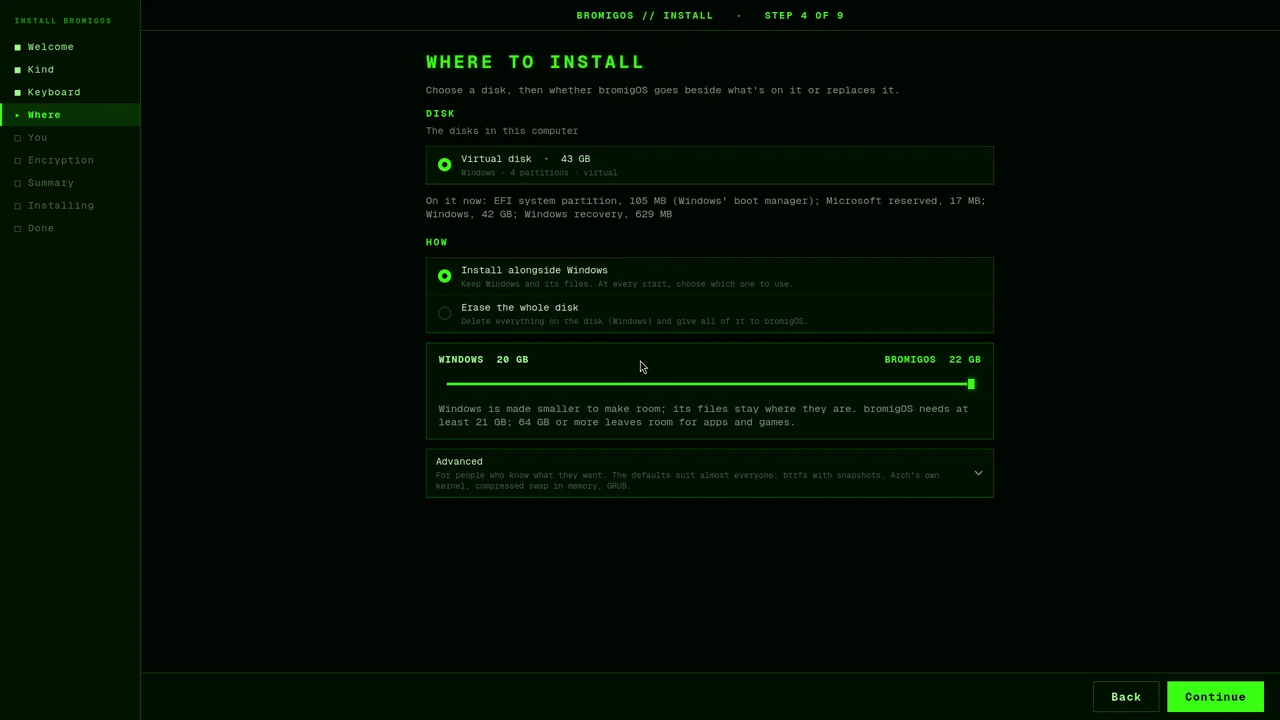
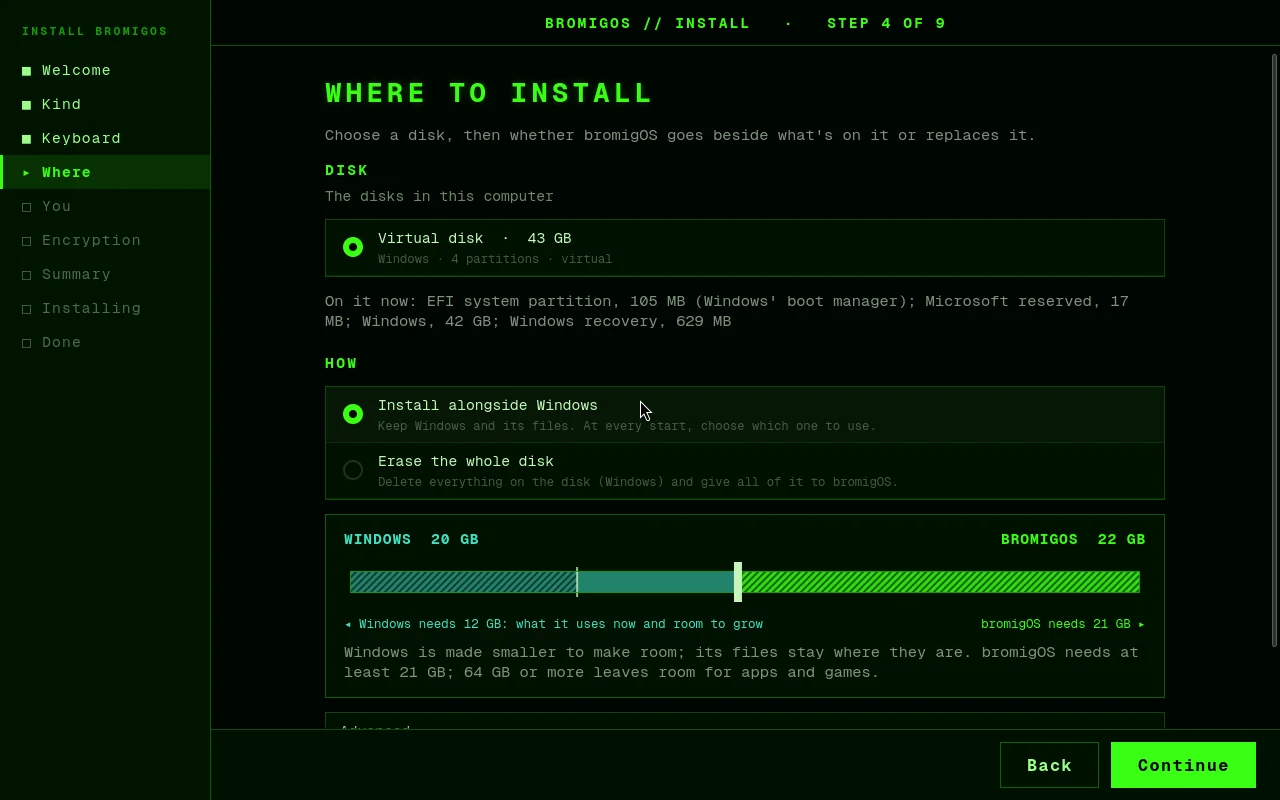
manual: the split and Pair your phone, as they are now
The Where-to-install picture showed the old slider, its handle at the far end for a
near-even split; it's now the QEMU capture of the bar that splits the disk, the handle
where the shares meet and each side's minimum striped (#38). Pair your phone's picture
shows the step laid out to fit one screen.

Claude-Session: https://claude.ai/code/session_01TNH5LNnAcRtMTGabp1hHmy

diff --git a/manual/src/install.md b/manual/src/install.md
@@ -270,7 +270,7 @@ has the details.
    - **your keyboard,** with a box to try it in.
    - **where to install.** Choose the disk, then either:
 
-     ![Where to install: a disk with Windows, Install alongside Windows chosen, and the slider: Windows 20 GB, bromigOS 22 GB](images/installer-where-alongside-windows.webp)
+     ![Where to install: a disk with Windows, Install alongside Windows chosen, and the split: Windows 20 GB, bromigOS 22 GB, each side's minimum striped](images/installer-where-alongside-windows.webp)
 
      - **Install alongside Windows** (or the other system it found). Windows and its files
        stay. If there isn't free space, the installer makes Windows' part of the disk

diff --git a/manual/src/installer.md b/manual/src/installer.md
@@ -53,7 +53,7 @@ itself.
    - **Reinstall bromigOS and keep my files**, when bromigOS is already on the disk. You
      get a fresh system, and your home folder stays as it is.
 
-   ![Where to install: Install alongside Windows, with the slider for each system's share](images/installer-where-alongside-windows.webp)
+   ![Where to install: Install alongside Windows, with the bar that splits the disk and each side's minimum](images/installer-where-alongside-windows.webp)
 
 6. **Save Windows' recovery key**, only when Windows uses BitLocker (below).
 7. **About you.** Your name, a user name for signing in, a password, and a name for the

diff --git a/manual/src/phone.md b/manual/src/phone.md
@@ -25,7 +25,7 @@ BRODEC for iPhone is coming.
    asks for your password and shows the phone's key: compare it with the one on the
    phone, then **Allow**.
 
-![Pair your phone: Google Play's QR code, the pairing code and what the phone can do](images/welcome-tour-phone.webp)
+![Pair your phone: Google Play as one row, then the pairing QR beside its steps, the code to type and the live status](images/welcome-tour-phone.webp)
 
 If this computer runs your lab's VECTOR bridge (`brodec-lab`), the step offers to pair it
 too: **Pair it** asks for your password and shows the bridge's own code.
